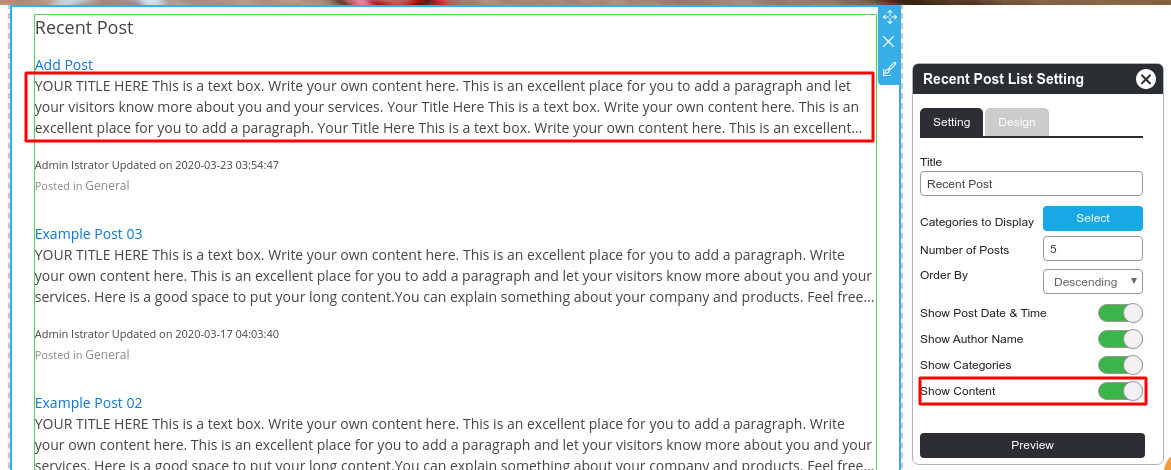
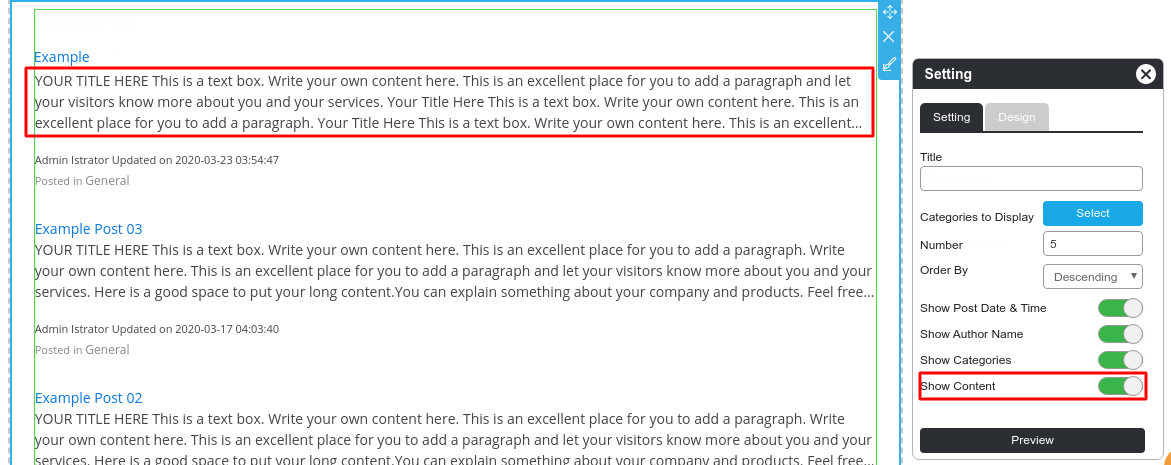
edit image

diff --git a/en/rvsitebuilder-widget.md b/en/rvsitebuilder-widget.md
@@ -258,7 +258,7 @@ RVsitebuilder use view composer extensively. Especially using together with midd
 
 คือ Config ในการตั้งค่าบน Panel Toolbar ของ Widget สำหรับ Option ต่างๆ จำพวกการจัดเรียง, เปลี่ยนสี รวมไปถึงการ ShowHide `Title, Date and Time, Author, Category, Content, etc`.
 
-ยกตัวอย่าง เช่น ต้องการเพิ่ม Config และปุ่ม ShowHide Content (สมมุติชื่อ showcontent) ของ Blog Packages ใน Widget Recent Post บนไฟล์ `design1.blade.php`
+ยกตัวอย่าง เช่น ต้องการเพิ่ม Config และปุ่ม ShowHide Content (สมมุติชื่อ showcontent) บนไฟล์ `design1.blade.php`
 
 ![DeveloperDashboard](images/config-element-panel.png)
 
@@ -273,7 +273,7 @@ return [
         'frame-style' => 'width:250px;height:500px;',
 
         'setting' => [
-            'title' => 'Recent Post',
+            'title' => 'Example-Title',
             'limit' => 5,
             'update' => 1,
             'author' => 1,
@@ -291,9 +291,9 @@ return [
 
 ![DeveloperDashboard](images/code-config-element-panel-01.png)
 
-2. ส่วนที่เกี่ยวข้องกับ Content Preview ซึ่งใน BlogController มี Function นี้อยู่แล้ว
+2. ส่วนที่เกี่ยวข้องกับ Content Preview ซึ่งใน PackagesController มี Function นี้อยู่แล้ว
 
-- แก้ไขที่ `/packages/vendor-name/project-name/src/Http/Composers/RecentPostWidgetViewComposer.php`
+- แก้ไขที่ `/packages/vendor-name/project-name/src/Http/Composers/WidgetViewComposer.php`
 
 ![DeveloperDashboard](images/code-config-element-panel-02.png)
 
